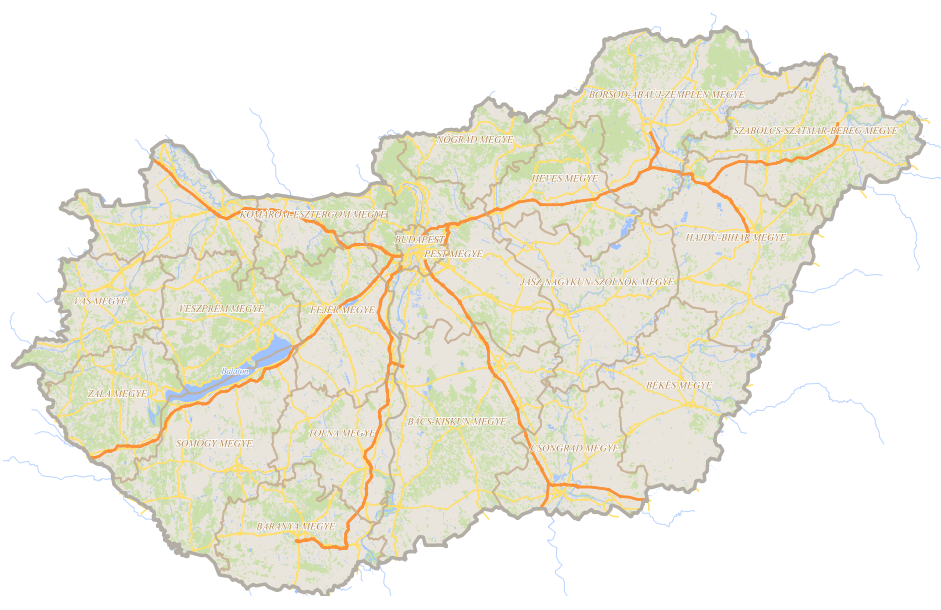
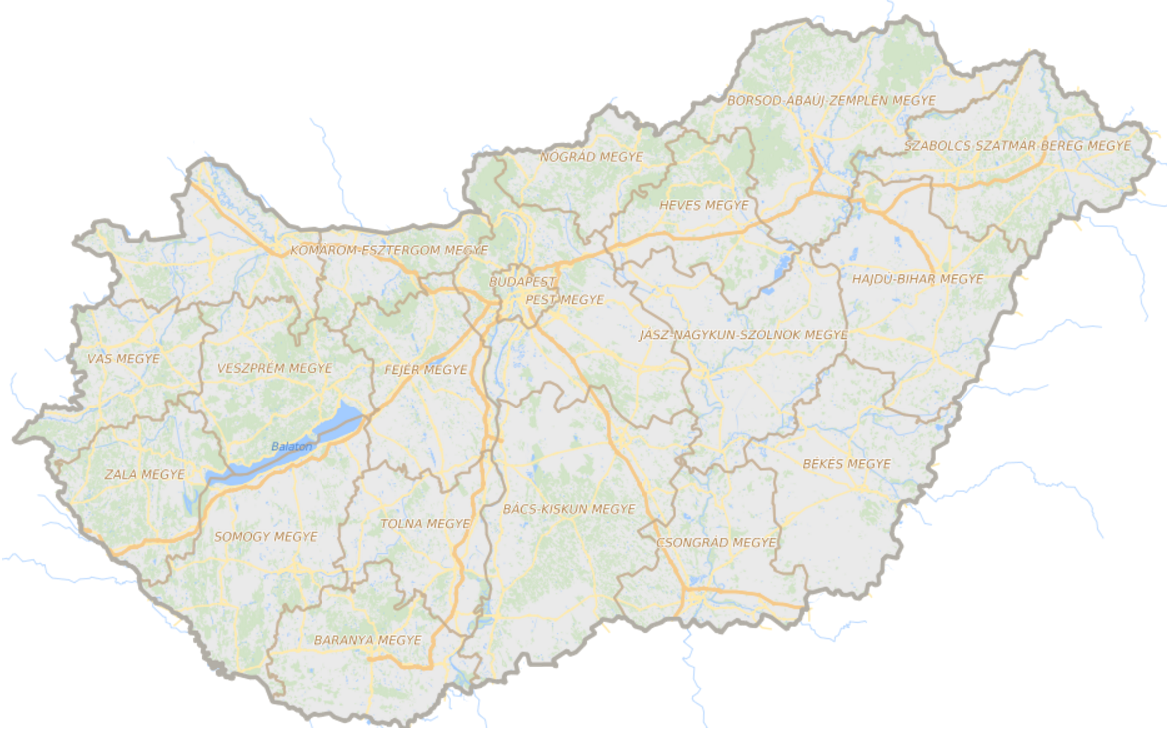
some styles, new images

diff --git a/css/style_trunk_primary.css b/css/style_trunk_primary.css
@@ -9,12 +9,12 @@
   -gt-label-max-displacement: 400;
   -gt-label-repeat: 300;
   stroke-linecap: round;
-  stroke: #ffdf69;
+  stroke: #ffebaf;
   stroke-width: 1px;
 }
 
 [@scale < 200001] [@scale > 100001] {
-  stroke: #8f8f8f, #ffdf69;
+  stroke: #8f8f8f, #ffebaf;
   stroke-width: 2.6, 1.5;
   stroke-opacity: 0.3, 1;
   z-index: 0, 1;
@@ -23,7 +23,7 @@
 }
 
 [@scale < 100001] [@scale > 50001] {
-  stroke: #8f8f8f, #ffdf69;
+  stroke: #8f8f8f, #ffebaf;
   stroke-width: 3, 2;
   stroke-opacity: 0.5, 1;
   z-index: 0, 1;
@@ -32,7 +32,7 @@
 }
 
 [@scale < 50001] [@scale > 25001] {
-  stroke: #8f8f8f, #ffdf69;
+  stroke: #8f8f8f, #ffebaf;
   stroke-width: 3, 2;
   stroke-opacity: 0.5, 1;
   z-index: 0, 1;
@@ -41,7 +41,7 @@
 }
 
 [@scale < 25001] [@scale > 10001] {
-  stroke: #8f8f8f, #ffdf69;
+  stroke: #8f8f8f, #ffebaf;
   stroke-width: 5, 4;
   stroke-opacity: 0.5, 1;
   z-index: 0, 1;
@@ -50,7 +50,7 @@
 }
 
 [@scale < 10001] [@scale > 5001] {
-  stroke: #8f8f8f, #ffdf69;
+  stroke: #8f8f8f, #ffebaf;
   stroke-width: 7, 6;
   stroke-opacity: 0.5, 1;
   z-index: 0, 1;
@@ -59,7 +59,7 @@
 }
 
 [@scale < 5001] {
-  stroke: #8f8f8f, #ffdf69;
+  stroke: #8f8f8f, #ffebaf;
   stroke-width: 12, 11;
   stroke-opacity: 0.5, 1;
   z-index: 0, 1;

diff --git a/css/style_motorway.css b/css/style_motorway.css
@@ -9,12 +9,12 @@
   -gt-label-max-displacement: 400;
   -gt-label-repeat: 300;
   stroke-linecap: round;
-  stroke: #fb9139;
+  stroke: #f6cb8c;
   stroke-width: 2;
 }
 
 [@scale < 200001] [@scale > 100001] {
-  stroke: #8f8f8f, #fb9139;
+  stroke: #8f8f8f, #f6cb8c;
   stroke-width: 3, 2;
   stroke-opacity: 0.5, 1;
   z-index: 0, 1;
@@ -23,7 +23,7 @@
 }
 
 [@scale < 100001] [@scale > 50001] {
-  stroke: #8f8f8f, #fb9139;
+  stroke: #8f8f8f, #f6cb8c;
   stroke-width: 3, 2;
   stroke-opacity: 0.5, 1;
   z-index: 0, 1;
@@ -32,7 +32,7 @@
 }
 
 [@scale < 50001] [@scale > 25001] {
-  stroke: #8f8f8f, #fb9139;
+  stroke: #8f8f8f, #f6cb8c;
   stroke-width: 4, 3;
   stroke-opacity: 0.5, 1;
   z-index: 0, 1;
@@ -41,7 +41,7 @@
 }
 
 [@scale < 25001] [@scale > 10001] {
-  stroke: #8f8f8f, #fb9139;
+  stroke: #8f8f8f, #f6cb8c;
   stroke-width: 7, 6;
   stroke-opacity: 0.5, 1;
   z-index: 0, 1;
@@ -50,7 +50,7 @@
 }
 
 [@scale < 10001] [@scale > 5001] {
-  stroke: #8f8f8f, #fb9139;
+  stroke: #8f8f8f, #f6cb8c;
   stroke-width: 8, 7;
   stroke-opacity: 0.8, 1;
   z-index: 0, 1;
@@ -59,7 +59,7 @@
 }
 
 [@scale < 5001] {
-  stroke: #8f8f8f, #fb9139;
+  stroke: #8f8f8f, #f6cb8c;
   stroke-width: 14, 12;
   stroke-opacity: 0.8, 1;
   z-index: 0, 1;

diff --git a/css/style_forestpark.css b/css/style_forestpark.css
@@ -1,5 +1,5 @@
 * { 
-  fill: #cbe6a3; 
+  fill: #d2e4c8; 
   font-family: "DejaVu Sans";
   halo-color: white;
   halo-radius: 0.3;
